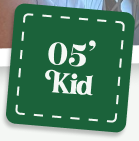
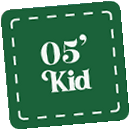
Revisi Layout Tampilan

diff --git a/src/components/PersonalWorksSection.tsx b/src/components/PersonalWorksSection.tsx
@@ -2,30 +2,31 @@ import React from 'react';
 
 export const PersonalWorksSection: React.FC = () => {
   return (
-    <section id="works" className="relative w-full lg:w-[1440px] min-h-0 lg:h-[1782px] pt-14 sm:pt-20 lg:pt-[60px] pb-12 lg:pb-0 select-none overflow-x-clip px-4 sm:px-8 lg:px-0">
+    <section id="works" className="relative w-full lg:w-[1440px] min-h-0 lg:h-[1782px] pt-14 sm:pt-20 lg:pt-[60px] pb-12 lg:pb-0 select-none overflow-visible px-4 sm:px-8 lg:px-0">
       {/* Mobile-Only Atmospheric Gradient Blobs */}
       <div className="lg:hidden absolute -left-[70px] top-[180px] w-[220px] h-[220px] rounded-full pointer-events-none opacity-35 blur-[28px] bg-[radial-gradient(ellipse_at_center,rgba(8,47,186,0.45)_0%,transparent_70%)] z-0" aria-hidden="true" />
       <div className="lg:hidden absolute -right-[70px] top-[480px] w-[240px] h-[240px] rounded-full pointer-events-none opacity-35 blur-[28px] bg-[radial-gradient(ellipse_at_center,rgba(245,158,11,0.45)_0%,transparent_70%)] z-0" aria-hidden="true" />
 
-      {/* 3D Laughing Emoji (node 51:340, partially cut off at right edge) */}
+      {/* 3D Laughing Emoji (Figma node 51:340: mentok ke kanan, sebagian masuk, authentic depth-of-field blur) */}
       <div 
-        className="absolute -right-[clamp(20px,5vw,50px)] lg:left-[1158px] lg:right-auto top-[10px] lg:top-[20px] z-20 w-[clamp(110px,26vw,320px)] aspect-square pointer-events-none select-none"
+        className="absolute -right-[70px] sm:-right-[90px] lg:-right-[150px] top-[130px] sm:top-[160px] lg:top-[185px] z-10 w-[220px] sm:w-[300px] lg:w-[420px] aspect-square pointer-events-none select-none"
         title="3D Laughing Emoji"
       >
         <img
           src="/assets/figma/dc1f25b1ca5028e9551c5a11fc58f1b2fe487ab5.png"
           alt="3D Laughing Emoji"
-          className="w-full h-full object-contain filter drop-shadow-[0_12px_24px_rgba(0,0,0,0.2)]"
+          className="w-full h-full object-contain blur-[8px] sm:blur-[10px] lg:blur-[14px] drop-shadow-[0_16px_32px_rgba(0,0,0,0.18)]"
+          style={{ filter: 'blur(14px) drop-shadow(0 16px 32px rgba(0,0,0,0.18))' }}
         />
       </div>
 
       {/* Title: Pers●nal W●rks with authentic badges replacing 'o's (Figma node 50:286) */}
       <div className="relative mb-8 sm:mb-12 lg:mb-[65px] text-center select-none">
-        <h2 className="font-['Montserrat'] font-black text-[clamp(28px,7.5vw,96px)] text-[#1e1e1e] tracking-tight inline-flex items-center justify-center leading-none flex-wrap">
+        <h2 className="font-['Montserrat'] font-black text-[clamp(28px,7.5vw,96px)] text-[#1e1e1e] tracking-tight inline-flex items-baseline justify-center leading-none flex-wrap">
           <span>Pers</span>
           
           {/* Sticker 1 replacing first 'o': Always With New Ideas badge (node 51:299) */}
-          <span className="inline-flex items-center justify-center mx-1 sm:mx-2 w-[clamp(24px,6.2vw,70px)] aspect-[70/64] relative sticker-pop cursor-pointer align-middle">
+          <span className="inline-block relative h-[0.70em] aspect-[70/64] translate-y-[0.08em] mx-[0.02em] sticker-pop cursor-pointer">
             <img
               src="/assets/stickers/sticker-always-complete.svg?v=ideas2"
               alt="Always With New Ideas sticker"
@@ -34,15 +35,15 @@ export const PersonalWorksSection: React.FC = () => {
           </span>
 
           <span>nal</span>
-          <span className="w-2 sm:w-5" />
-          <span>W</span>
+          <span className="inline-block w-[0.28em]" />
+          <span>W</span>  
 
-          {/* Sticker 2 replacing second 'o': Smile red sticker (node 51:294, Solid Red + concentric cream face as in Figma) */}
-          <span className="inline-flex items-center justify-center mx-1 sm:mx-2 w-[clamp(24px,6.2vw,70px)] aspect-[70/68] relative sticker-pop cursor-pointer align-middle">
+          {/* Sticker 2 replacing second 'o': Smile red sticker (node 51:294) */}
+          <span className="inline-block relative h-[0.70em] aspect-[68/62] translate-y-[0.08em] -ml-[0.03em] mr-[0.02em] sticker-pop cursor-pointer">
             <img
-              src="/assets/stickers/badge-smile-complete.svg"
+              src="/assets/stickers/badge-smile-complete.svg?v=red2"
               alt="Smile red sticker"
-              className="w-full h-full object-contain drop-shadow-[0_4px_12px_rgba(228,40,31,0.35)]"
+              className="w-full h-full object-contain"
             />
           </span>
 
@@ -50,10 +51,23 @@ export const PersonalWorksSection: React.FC = () => {
         </h2>
       </div>
 
-      {/* Dashed Timeline Line: Left on mobile (±24px), centered on desktop (x: 720px) */}
+      {/* Dashed Timeline Line: Left on mobile (20px/24px), centered on desktop (720px) */}
       <div 
-        className="absolute left-[20px] sm:left-[24px] lg:left-[720px] top-[140px] sm:top-[160px] lg:top-[222px] w-0 bottom-12 lg:bottom-auto lg:h-[1137px] border-l-[2px] sm:border-l-[3px] border-dashed border-[#1e1e1e]/60 pointer-events-none z-0" 
-      />
+        className="absolute left-[20px] sm:left-[24px] lg:left-[720px] -translate-x-1/2 top-[140px] sm:top-[160px] lg:top-[215px] bottom-12 lg:bottom-auto lg:h-[1140px] w-[6px] pointer-events-none z-0"
+      >
+        <svg className="w-full h-full" preserveAspectRatio="none">
+          <line
+            x1="3"
+            y1="0"
+            x2="3"
+            y2="100%"
+            stroke="#1e1e1e"
+            strokeWidth="4"
+            strokeDasharray="10 8"
+            strokeLinecap="round"
+          />
+        </svg>
+      </div>
 
       {/* Timeline Categories Container */}
       <div className="relative w-full max-w-xl lg:max-w-none mx-auto flex flex-col gap-8 sm:gap-12 lg:gap-[75px] z-10">
@@ -61,10 +75,10 @@ export const PersonalWorksSection: React.FC = () => {
         {/* ITEM 1: Street Photography */}
         <div className="relative w-full">
           {/* Category Header */}
-          <div className="flex items-center lg:justify-end pl-[38px] sm:pl-[44px] lg:pl-0 lg:pr-[733px] gap-3 sm:gap-[18px] mb-3 sm:mb-[13px] relative">
-            {/* Dot on mobile is positioned on left line; on desktop it translates x */}
-            <div className="absolute left-[20px] sm:left-[24px] -translate-x-1/2 lg:relative lg:left-auto lg:translate-x-[13px] w-4 h-4 sm:w-[22px] sm:h-[22px] lg:w-[26px] lg:h-[26px] rounded-full bg-black shrink-0 order-first lg:order-last" />
-            <span className="font-['Montserrat'] font-medium text-[clamp(18px,4.5vw,36px)] text-black">
+          <div className="relative w-full h-[36px] sm:h-[44px] flex items-center mb-3 sm:mb-[16px]">
+            {/* Bullet Dot: perfectly centered on top of the dashed line (z-10) */}
+            <div className="absolute left-[20px] sm:left-[24px] lg:left-[720px] -translate-x-1/2 top-1/2 -translate-y-1/2 w-4 h-4 sm:w-[22px] sm:h-[22px] lg:w-[26px] lg:h-[26px] rounded-full bg-[#1e1e1e] shrink-0 z-10 ring-4 ring-[#f4f7f4]" />
+            <span className="font-['Montserrat'] font-medium text-[clamp(18px,4.5vw,36px)] text-[#1e1e1e] pl-[38px] sm:pl-[44px] lg:pl-0 lg:absolute lg:right-[746px] lg:top-1/2 lg:-translate-y-1/2 whitespace-nowrap">
               Street Photography
             </span>
           </div>
@@ -95,9 +109,10 @@ export const PersonalWorksSection: React.FC = () => {
         {/* ITEM 2: Wedding Photography */}
         <div className="relative w-full">
           {/* Category Header */}
-          <div className="flex items-center justify-start pl-[38px] sm:pl-[44px] lg:pl-[707px] gap-3 sm:gap-[18px] mb-3 sm:mb-[13px] relative">
-            <div className="absolute left-[20px] sm:left-[24px] -translate-x-1/2 lg:relative lg:left-auto lg:-translate-x-[13px] w-4 h-4 sm:w-[22px] sm:h-[22px] lg:w-[26px] lg:h-[26px] rounded-full bg-black shrink-0" />
-            <span className="font-['Montserrat'] font-medium text-[clamp(18px,4.5vw,36px)] text-black">
+          <div className="relative w-full h-[36px] sm:h-[44px] flex items-center mb-3 sm:mb-[16px]">
+            {/* Bullet Dot: perfectly centered on top of the dashed line (z-10) */}
+            <div className="absolute left-[20px] sm:left-[24px] lg:left-[720px] -translate-x-1/2 top-1/2 -translate-y-1/2 w-4 h-4 sm:w-[22px] sm:h-[22px] lg:w-[26px] lg:h-[26px] rounded-full bg-[#1e1e1e] shrink-0 z-10 ring-4 ring-[#f4f7f4]" />
+            <span className="font-['Montserrat'] font-medium text-[clamp(18px,4.5vw,36px)] text-[#1e1e1e] pl-[38px] sm:pl-[44px] lg:pl-0 lg:absolute lg:left-[746px] lg:top-1/2 lg:-translate-y-1/2 whitespace-nowrap">
               Wedding Photography
             </span>
           </div>
@@ -128,9 +143,10 @@ export const PersonalWorksSection: React.FC = () => {
         {/* ITEM 3: Sketching & Drawing */}
         <div className="relative w-full">
           {/* Category Header */}
-          <div className="flex items-center lg:justify-end pl-[38px] sm:pl-[44px] lg:pl-0 lg:pr-[733px] gap-3 sm:gap-[18px] mb-3 sm:mb-[13px] relative">
-            <div className="absolute left-[20px] sm:left-[24px] -translate-x-1/2 lg:relative lg:left-auto lg:translate-x-[13px] w-4 h-4 sm:w-[22px] sm:h-[22px] lg:w-[26px] lg:h-[26px] rounded-full bg-black shrink-0 order-first lg:order-last" />
-            <span className="font-['Montserrat'] font-medium text-[clamp(18px,4.5vw,36px)] text-black">
+          <div className="relative w-full h-[36px] sm:h-[44px] flex items-center mb-3 sm:mb-[16px]">
+            {/* Bullet Dot: perfectly centered on top of the dashed line (z-10) */}
+            <div className="absolute left-[20px] sm:left-[24px] lg:left-[720px] -translate-x-1/2 top-1/2 -translate-y-1/2 w-4 h-4 sm:w-[22px] sm:h-[22px] lg:w-[26px] lg:h-[26px] rounded-full bg-[#1e1e1e] shrink-0 z-10 ring-4 ring-[#f4f7f4]" />
+            <span className="font-['Montserrat'] font-medium text-[clamp(18px,4.5vw,36px)] text-[#1e1e1e] pl-[38px] sm:pl-[44px] lg:pl-0 lg:absolute lg:right-[746px] lg:top-1/2 lg:-translate-y-1/2 whitespace-nowrap">
               Sketching & Drawing
             </span>
           </div>
@@ -161,9 +177,10 @@ export const PersonalWorksSection: React.FC = () => {
         {/* ITEM 4: 3D Animation Project */}
         <div className="relative w-full">
           {/* Category Header */}
-          <div className="flex items-center justify-start pl-[38px] sm:pl-[44px] lg:pl-[707px] gap-3 sm:gap-[18px] mb-3 sm:mb-[13px] relative">
-            <div className="absolute left-[20px] sm:left-[24px] -translate-x-1/2 lg:relative lg:left-auto lg:-translate-x-[13px] w-4 h-4 sm:w-[22px] sm:h-[22px] lg:w-[26px] lg:h-[26px] rounded-full bg-black shrink-0" />
-            <span className="font-['Montserrat'] font-medium text-[clamp(18px,4.5vw,36px)] text-black">
+          <div className="relative w-full h-[36px] sm:h-[44px] flex items-center mb-3 sm:mb-[16px]">
+            {/* Bullet Dot: perfectly centered on top of the dashed line (z-10) */}
+            <div className="absolute left-[20px] sm:left-[24px] lg:left-[720px] -translate-x-1/2 top-1/2 -translate-y-1/2 w-4 h-4 sm:w-[22px] sm:h-[22px] lg:w-[26px] lg:h-[26px] rounded-full bg-[#1e1e1e] shrink-0 z-10 ring-4 ring-[#f4f7f4]" />
+            <span className="font-['Montserrat'] font-medium text-[clamp(18px,4.5vw,36px)] text-[#1e1e1e] pl-[38px] sm:pl-[44px] lg:pl-0 lg:absolute lg:left-[746px] lg:top-1/2 lg:-translate-y-1/2 whitespace-nowrap">
               3D Animation Project
             </span>
           </div>

diff --git a/src/components/JtiExpoSection.tsx b/src/components/JtiExpoSection.tsx
@@ -2,30 +2,21 @@ import React from 'react';
 
 export const JtiExpoSection: React.FC = () => {
   return (
-    <section id="jti-expo" className="relative w-full lg:w-[1440px] min-h-0 lg:h-[950px] pt-14 sm:pt-20 lg:pt-[70px] px-4 sm:px-8 lg:px-[88px] isolate overflow-x-clip">
+    <section id="jti-expo" className="relative z-20 w-full lg:w-[1440px] min-h-0 lg:h-[960px] pt-14 sm:pt-20 lg:pt-[70px] px-4 sm:px-8 lg:px-[88px] overflow-visible">
       {/* Mobile-Only Atmospheric Gradient Blob */}
       <div className="lg:hidden absolute -right-[80px] top-[100px] w-[240px] h-[240px] rounded-full pointer-events-none opacity-35 blur-[28px] bg-[radial-gradient(ellipse_at_center,rgba(8,47,186,0.5)_0%,transparent_70%)] z-0" aria-hidden="true" />
 
-      {/* 1. Floating 3D Heart-Eyes Emoji at Top Right (partially cut off at right edge) */}
-      <div className="absolute -right-[clamp(35px,8vw,90px)] -top-[clamp(20px,4vw,40px)] z-30 w-[clamp(120px,28vw,240px)] aspect-square rotate-[-38.02deg] pointer-events-none select-none">
+      {/* 1. Large Blurred 3D Heart-Eyes Emoji filling gap between JTI & 4C (Intact shape, positioned cleanly below text, Figma Node 46:65) */}
+      <div className="absolute -left-[40px] sm:-left-[60px] lg:-left-[80px] top-[670px] sm:top-[700px] lg:top-[725px] z-30 w-[270px] sm:w-[325px] lg:w-[375px] aspect-square rotate-[31.61deg] pointer-events-none select-none">
         <img
           src="/assets/figma/f13d290a29579d7d0f26c057eb813be5e8b6b62d.png"
           alt="3D Heart-Eyes Emoji"
-          className="w-full h-full object-contain filter drop-shadow-[0_12px_24px_rgba(0,0,0,0.18)]"
-        />
-      </div>
-
-      {/* 2. Floating 3D Heart-Eyes Emoji at Bottom Left (partially cut off at left edge) */}
-      <div className="absolute -left-[clamp(40px,9vw,100px)] -bottom-[clamp(30px,6vw,70px)] z-30 w-[clamp(130px,30vw,270px)] aspect-square rotate-[15deg] pointer-events-none select-none">
-        <img
-          src="/assets/figma/f13d290a29579d7d0f26c057eb813be5e8b6b62d.png"
-          alt="3D Heart-Eyes Emoji"
-          className="w-full h-full object-contain filter drop-shadow-[0_12px_24px_rgba(0,0,0,0.18)]"
+          className="w-full h-full object-contain blur-[14px] drop-shadow-[0_16px_32px_rgba(0,0,0,0.18)]"
         />
       </div>
 
       {/* Main Container */}
-      <div className="relative w-full max-w-xl lg:max-w-none mx-auto flex flex-col lg:flex-row items-center justify-between gap-8 lg:gap-0">
+      <div className="relative w-full max-w-xl lg:max-w-none mx-auto flex flex-col lg:flex-row items-center lg:items-start justify-between gap-8 lg:gap-10">
         
         {/* LEFT: Title, Instagram, Description */}
         <div className="w-full lg:w-[536px] flex flex-col gap-4 sm:gap-6 z-20">
@@ -65,8 +56,8 @@ export const JtiExpoSection: React.FC = () => {
           </p>
         </div>
 
-        {/* RIGHT: Standee Signboard + Protruding 3D Logo + Smile Sticker */}
-        <div className="relative w-full max-w-[320px] sm:max-w-[400px] lg:max-w-none lg:w-[500px] lg:h-[720px] shrink-0 flex items-center justify-center z-10 lg:pr-6 my-4 lg:my-0">
+        {/* RIGHT: Standee Signboard (Prominently sized as in Figma) + Protruding 3D Logo + Smile Sticker + Top-Right Emoji */}
+        <div className="relative w-full max-w-[340px] sm:max-w-[380px] lg:max-w-none lg:w-[410px] shrink-0 flex items-center justify-center z-10 lg:mr-16 my-4 lg:my-0">
           
           {/* Standee Board */}
           <div className="relative w-full aspect-[449/734] drop-shadow-[0_20px_35px_rgba(0,0,0,0.22)]">
@@ -79,7 +70,7 @@ export const JtiExpoSection: React.FC = () => {
             />
 
             {/* Red Smile Sticker on Left Frame of Board (Solid Red + concentric cream face as in Figma) */}
-            <div className="absolute -left-[10%] top-[32%] z-30 w-[24%] aspect-square sticker-pop cursor-pointer rotate-[-16.32deg]">
+            <div className="absolute -left-[11%] top-[31%] z-30 w-[24%] aspect-square sticker-pop cursor-pointer rotate-[-16.32deg]">
               <img
                 src="/assets/stickers/sticker-smile-complete.svg"
                 alt="Smile Sticker"
@@ -89,14 +80,23 @@ export const JtiExpoSection: React.FC = () => {
               />
             </div>
 
-            {/* 3D JTI Expo Logo protruding at bottom-left across the legs */}
-            <div className="absolute -left-[18%] bottom-[4%] z-30 w-[78%] rotate-[4.81deg] hover:rotate-0 hover:scale-105 active:scale-95 transition-all duration-300 cursor-pointer">
+            {/* 3D JTI Expo Logo protruding at bottom-left across legs (Cropped tightly without transparent margin, 100% matching Figma) */}
+            <div className="absolute -left-[15%] sm:-left-[16%] bottom-[7%] sm:bottom-[8%] z-30 w-[86%] sm:w-[88%] rotate-[4.81deg] hover:rotate-0 hover:scale-105 active:scale-95 transition-all duration-300 cursor-pointer">
               <img
-                src="/assets/figma/80ce3dad18d3dbb8d62b44049d35d49b8e04d98a.png"
+                src="/assets/images/jti-expo-3d-logo-cropped.png"
                 alt="3D JTI EXPO Logo"
-                className="w-full h-auto object-contain drop-shadow-[0_10px_20px_rgba(0,0,0,0.2)]"
+                className="w-full h-auto object-contain drop-shadow-[0_12px_24px_rgba(0,0,0,0.24)]"
                 loading="lazy"
                 decoding="async"
+              />
+            </div>
+
+            {/* Floating 3D Heart-Eyes Emoji at Top Right (Outside the frame to the right, fully visible, not cut off as in Figma) */}
+            <div className="absolute -right-[70px] sm:-right-[80px] lg:-right-[90px] -top-[20px] sm:-top-[30px] z-30 w-[140px] sm:w-[160px] lg:w-[175px] aspect-square rotate-[-38.02deg] pointer-events-none select-none">
+              <img
+                src="/assets/figma/f13d290a29579d7d0f26c057eb813be5e8b6b62d.png"
+                alt="3D Heart-Eyes Emoji"
+                className="w-full h-full object-contain filter drop-shadow-[0_12px_24px_rgba(0,0,0,0.18)]"
               />
             </div>
           </div>

diff --git a/src/components/PcrCupSection.tsx b/src/components/PcrCupSection.tsx
@@ -61,12 +61,12 @@ export const PcrCupSection: React.FC = () => {
           {/* ASSET CLUSTER: Phone, Flyer, T-Shirt, Photo Card, Emoji (Mobile Order 2, Desktop Left) */}
           <div className="order-2 lg:order-1 relative w-full max-w-[340px] sm:max-w-[440px] lg:max-w-none lg:w-[650px] aspect-[650/600] lg:h-[600px] shrink-0 mx-auto select-none">
             
-            {/* 1. 3D Heart-Eyes Emoji (Partially cut off on the left edge as in Figma) */}
-            <div className="absolute -left-[clamp(24px,6vw,55px)] top-[1.5%] z-30 w-[clamp(90px,26%,180px)] aspect-square rotate-[20.95deg] pointer-events-none select-none">
+            {/* 1. 3D Heart-Eyes Emoji (Blurred foreground bokeh, shifted to the far left as in Figma) */}
+            <div className="absolute -left-[14%] sm:-left-[16%] lg:-left-[18%] -top-[4%] sm:-top-[5%] z-30 w-[28%] sm:w-[30%] lg:w-[30.8%] aspect-square rotate-[20.95deg] pointer-events-none select-none">
               <img
                 src="/assets/figma/f13d290a29579d7d0f26c057eb813be5e8b6b62d.png"
                 alt="3D Heart-Eyes Emoji"
-                className="w-full h-full object-contain filter drop-shadow-[0_12px_24px_rgba(0,0,0,0.18)]"
+                className="w-full h-full object-contain blur-[3.3px] drop-shadow-[0_12px_24px_rgba(0,0,0,0.18)]"
               />
             </div>
 
@@ -95,10 +95,10 @@ export const PcrCupSection: React.FC = () => {
             {/* 3. Tournament Flyer pinned on Left of Phone */}
             <div className="absolute left-0 top-[36.6%] z-20 w-[32.6%] aspect-[212/289] rotate-[3.42deg] drop-shadow-[4px_10px_25px_rgba(0,0,0,0.3)] hover:rotate-0 transition-transform duration-300">
               {/* Red pushpin on top of flyer */}
-              <div className="absolute -top-[10%] left-[48%] -translate-x-1/2 z-30 w-[22%] aspect-square drop-shadow-md -scale-x-100">
+              <div className="absolute -top-[8%] sm:-top-[9%] left-[38%] -translate-x-1/2 z-30 w-[19%] aspect-[73/88] -scale-x-100 drop-shadow-[5px_6px_10px_rgba(0,0,0,0.22)]">
                 <img
-                  src="/assets/figma/d3e5c2504cdd2fe251957eb8767e2df372b7ebf2.png"
-                  alt="Red Pin"
+                  src="/assets/images/red-pushpin-single.png"
+                  alt="Red Pushpin"
                   className="w-full h-full object-contain"
                   loading="lazy"
                   decoding="async"
@@ -124,8 +124,8 @@ export const PcrCupSection: React.FC = () => {
               />
             </div>
 
-            {/* 5. Green T-Shirt Mockup on Lower Right of Phone */}
-            <div className="absolute left-[36.9%] top-[43.3%] z-20 w-[58.4%] aspect-[380/310] rotate-[9.11deg] hover:rotate-[5deg] transition-transform duration-300">
+            {/* 5. Green T-Shirt Mockup on Lower Right (Behind Phone) */}
+            <div className="absolute left-[25%] top-[32%] z-0 w-[88%] aspect-[25/16] rotate-[9.11deg] hover:rotate-[6deg] transition-transform duration-300">
               <img
                 src="/assets/figma/8b3575b938c967ad1e35efefa8061a8eb1a8183d.png"
                 alt="PCR Cup T-Shirt Mockup"

diff --git a/src/components/AboutSection.tsx b/src/components/AboutSection.tsx
@@ -185,10 +185,10 @@ export const AboutSection: React.FC = () => {
                 />
               </div>
 
-              {/* Name Tag Sticker (Exported image from Figma node 11:37) */}
+              {/* Name Tag Sticker (Clean transparent PNG from Figma node 11:37) */}
               <div className="absolute -bottom-[clamp(20px,5vw,32px)] -left-[clamp(16px,4vw,35px)] z-20 w-[clamp(170px,46vw,273px)] hover:scale-105 active:scale-95 transition-transform cursor-pointer">
                 <img
-                  src="/assets/figma/name_tag_sticker.png"
+                  src="/assets/figma/name_tag_sticker.png?v=clean2"
                   alt="Hello, My name is: Othmar"
                   className="w-full h-auto object-contain drop-shadow-[2px_6px_15px_rgba(0,0,0,0.2)]"
                   loading="lazy"
@@ -196,10 +196,10 @@ export const AboutSection: React.FC = () => {
                 />
               </div>
 
-              {/* Green Sticker "05' Kid" (Exported image from Figma node 11:38) */}
+              {/* Green Sticker "05' Kid" (Clean transparent PNG from Figma node 11:38) */}
               <div className="absolute -bottom-[clamp(22px,5.5vw,36px)] -right-[clamp(12px,3vw,24px)] z-20 w-[clamp(75px,20vw,122px)] hover:scale-105 active:scale-95 transition-transform cursor-pointer">
                 <img
-                  src="/assets/figma/green_kid_sticker.png"
+                  src="/assets/figma/green_kid_sticker.png?v=clean2"
                   alt="05' Kid"
                   className="w-full h-auto object-contain drop-shadow-[-2px_4px_10px_rgba(0,0,0,0.25)]"
                   loading="lazy"

diff --git a/src/components/Competition4CSection.tsx b/src/components/Competition4CSection.tsx
@@ -40,13 +40,13 @@ export const Competition4CSection: React.FC = () => {
 
           {/* TWO PHONES MOCKUP CLUSTER (Mobile Order 2, Desktop Left) */}
           <div className="order-2 lg:order-1 relative w-full max-w-[340px] sm:max-w-[420px] lg:max-w-none lg:w-[650px] aspect-[650/550] lg:h-[550px] shrink-0 mx-auto my-4 lg:my-0 select-none">
-            {/* Shadow Ellipse 28 (Left Phone) */}
-            <div className="absolute left-[12.3%] top-[81.8%] w-[30.8%] h-[13.6%] -rotate-[14.77deg] pointer-events-none opacity-80">
+            {/* Shadow Ellipse 28 (Left Phone) - Tucked closely beneath left phone base */}
+            <div className="absolute left-[27%] top-[75%] w-[29%] h-[13.5%] -rotate-[14.77deg] pointer-events-none opacity-85">
               <img src="/assets/figma/087d57adbfb713ffa5e6a92f13ff3519f014407a.svg" alt="" className="w-full h-full" />
             </div>
 
-            {/* Shadow Ellipse 27 (Right Phone) */}
-            <div className="absolute left-[40%] top-[85.5%] w-[40%] h-[16.9%] rotate-[12.44deg] pointer-events-none opacity-80">
+            {/* Shadow Ellipse 27 (Right Phone) - Aligned directly beneath right phone base */}
+            <div className="absolute left-[44%] top-[77%] w-[38%] h-[16%] rotate-[12.44deg] pointer-events-none opacity-85">
               <img src="/assets/figma/bad087c1cf618adab1950b838c123d3edd6d1d0f.svg" alt="" className="w-full h-full" />
             </div>
 

diff --git a/src/components/HeroSection.tsx b/src/components/HeroSection.tsx
@@ -64,7 +64,7 @@ export const HeroSection: React.FC<HeroSectionProps> = ({ isEntered }) => {
     <section
       id="home"
       ref={containerRef}
-      className="relative w-full lg:w-[1440px] min-h-[80svh] lg:min-h-0 lg:h-[730px] flex flex-col items-center justify-center lg:justify-start pt-24 sm:pt-32 lg:pt-[242.5px] overflow-x-clip px-3 sm:px-4"
+      className="relative w-full lg:w-[1440px] min-h-[80svh] lg:min-h-0 lg:h-[700px] flex flex-col items-center justify-center lg:justify-start pt-16 sm:pt-24 lg:pt-[170px] overflow-x-clip px-3 sm:px-4"
     >
       {/* Mobile-Only Atmospheric Gradient Blobs (C1, E: lightweight radial gradients, won't cover title) */}
       <div className="lg:hidden absolute -left-[140px] top-[120px] w-[280px] h-[280px] rounded-full pointer-events-none opacity-40 blur-[28px] bg-[radial-gradient(ellipse_at_center,rgba(8,47,186,0.65)_0%,rgba(162,89,255,0.3)_60%,transparent_75%)] z-0" aria-hidden="true" />

diff --git a/src/App.tsx b/src/App.tsx
@@ -125,7 +125,7 @@ export const AppContent: React.FC = () => {
           >
             {/* 1. Hero Left Royal Blue (Figma 5:132) - Seamless Radial Gradient without bounding box cutoff */}
             <div
-              className="absolute left-[-450px] top-[260px] w-[1100px] h-[650px] rounded-full pointer-events-none opacity-85"
+              className="absolute left-[-450px] top-[200px] w-[1100px] h-[650px] rounded-full pointer-events-none opacity-85"
               style={{
                 background: 'radial-gradient(ellipse at 50% 50%, rgba(8, 47, 186, 0.6) 0%, rgba(8, 47, 188, 0.38) 35%, rgba(162, 89, 255, 0.2) 58%, transparent 75%)',
                 filter: 'blur(35px)',
